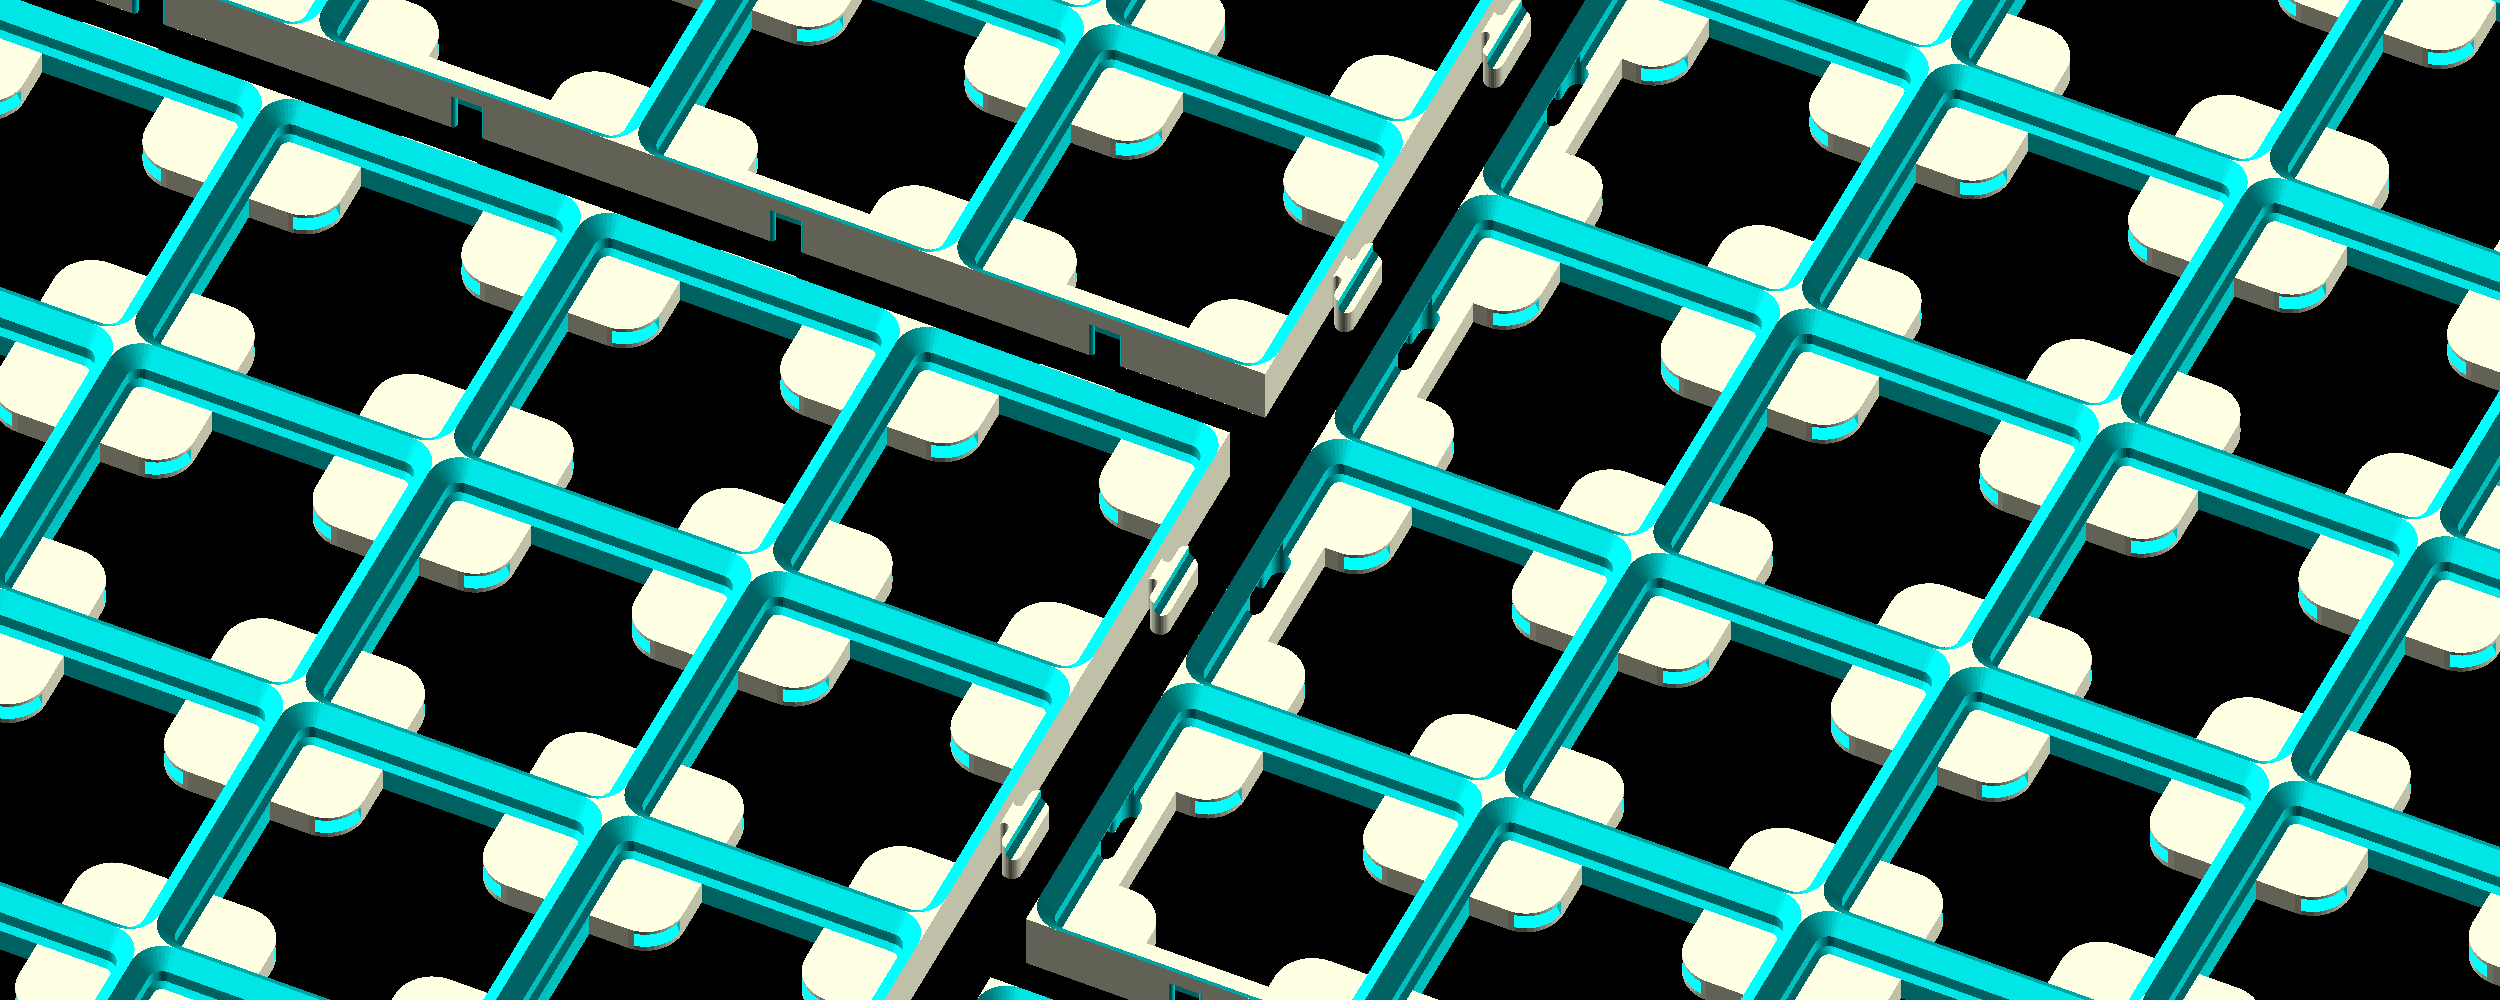
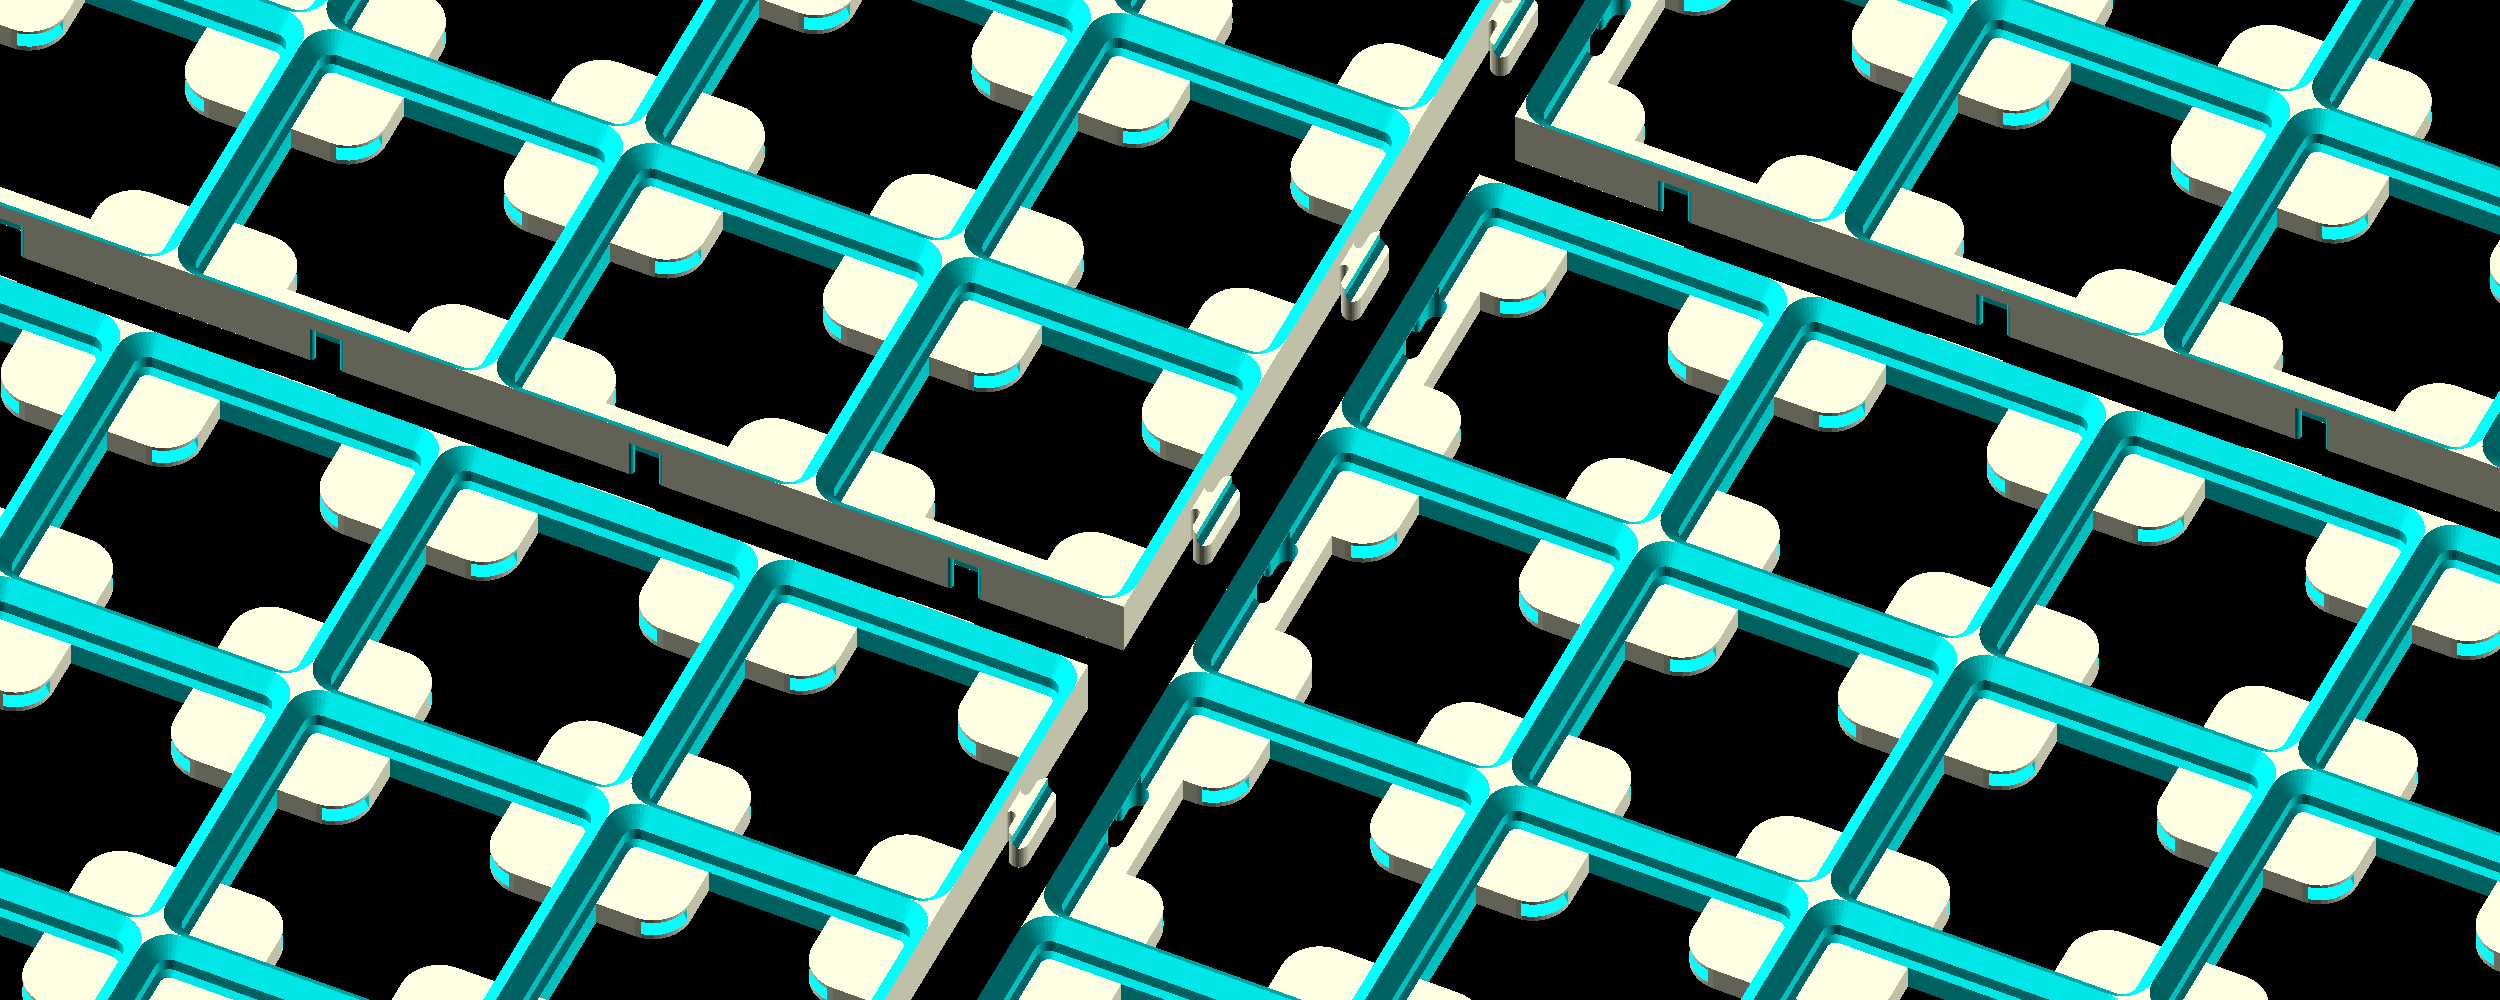
regenerate doc images

diff --git a/README.md b/README.md
@@ -13,7 +13,7 @@ For inserting magnets, check out [the jig I designed](https://www.printables.com
 <!-- openscad -o docs/images/whole.png --camera=0,-10,0,40,0,10,900 -D plate_size='[420, 420]' -->
 <img src="docs/images/whole.png" alt="Whole plate" />
 
-<!-- openscad -o docs/images/closeup.png --camera=0,-10,0,40,0,25,300 -D plate_size='[420, 420]' -->
+<!-- openscad -o docs/images/closeup.png --camera=0,30,0,40,0,25,300 -D plate_size='[420, 420]' -->
 <img src="docs/images/closeup.png" alt="Closeup" />
 
 - [GridFlock](#gridflock)
@@ -73,7 +73,7 @@ When the plate size exceeds your printer's bed size, GridFlock will split the pl
 
 This mode adds small puzzle-style connectors at cell intersections. This is similar to GridPlates and GRIPS, and relatively easy to print. However, in my experience, these connectors can sometimes lead to gaps between the segments. The shape of these connectors is fixed in [puzzle.svg](https://github.com/yawkat/GridFlock/blob/main/puzzle.svg) and cannot be customized without editing the SVG.
 
-<!-- openscad -o docs/images/intersection-puzzle.png --camera=0,-10,0,40,0,25,300 -D plate_size='[420, 420]' -->
+<!-- openscad -o docs/images/intersection-puzzle.png --camera=0,30,0,40,0,25,300 -D plate_size='[420, 420]' -->
 <img src="docs/images/intersection-puzzle.png" alt="Intersection puzzle" />
 
 #### Connector Fit
@@ -105,7 +105,7 @@ This connector is a good alternative to the intersection puzzle if the plate has
 * To make the female connectors more sturdy and easier to print, an extra "bar" is added at the magnet level, on those edges where a female connector is placed (only if magnets are enabled). You can see it in the screenshot. With this bar, it may be viable to make the connector full-height and avoid the overhang.
 * Unlike the intersection mode, the edge puzzle connectors are highly customizable for your circumstances.
 
-<!-- openscad -o docs/images/edge-puzzle.png --camera=0,-10,0,40,0,25,300 -D plate_size='[420, 420]' -D connector_intersection_puzzle=false -D connector_edge_puzzle=true -->
+<!-- openscad -o docs/images/edge-puzzle.png --camera=0,30,0,40,0,25,300 -D plate_size='[420, 420]' -D connector_intersection_puzzle=false -D connector_edge_puzzle=true -->
 <img src="docs/images/edge-puzzle.png" alt="Edge puzzle" />
 
 #### Connector Height
